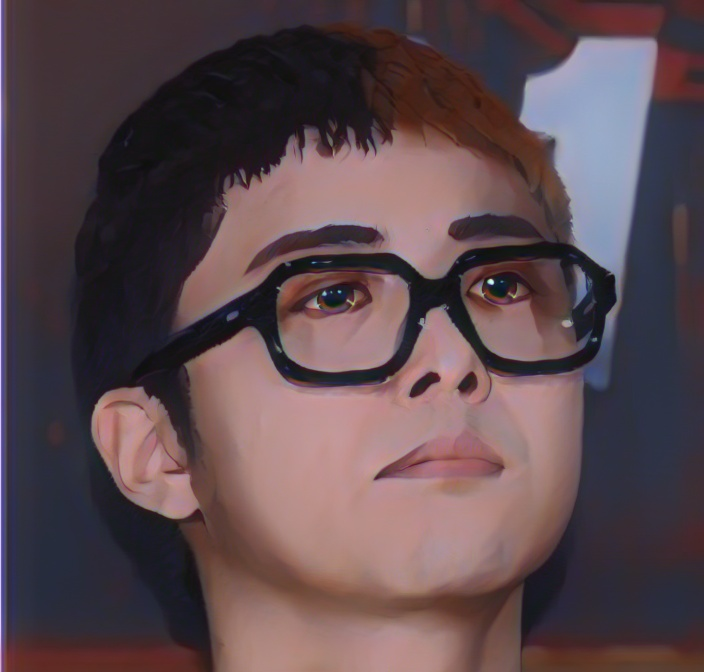
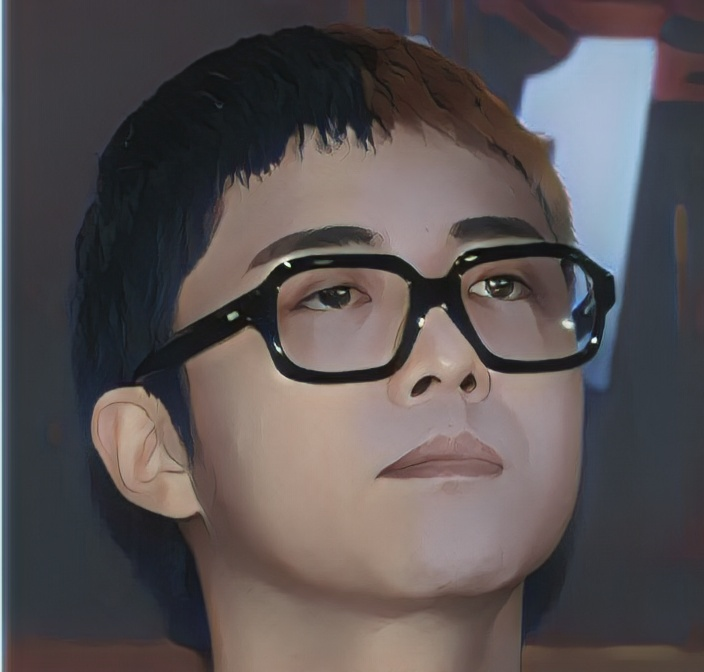
update Acane v2

diff --git a/utils/common.py b/utils/common.py
@@ -44,7 +44,7 @@ RELEASED_WEIGHTS = {
     ## Face portrait
     "arcane:v2": (
         "v2",
-        "https://github.com/ptran1203/pytorch-animeGAN/releases/download/v1.2/GeneratorV2_ffhq_Arcane_512.pt"
+        "https://github.com/ptran1203/pytorch-animeGAN/releases/download/v1.2/GeneratorV2_ffhq_Arcane_210624_e350.pt"
     )
 }
 

diff --git a/README.md b/README.md
@@ -60,7 +60,7 @@ predictor.transform_file(url, "anime.jpg")
 | Shinkai | AnimeGAN | train_photo + Shinkai style | [generator_shinkai.pt](https://github.com/ptran1203/pytorch-animeGAN/releases/download/v1.0/generator_shinkai.pth) |
 | Hayao:v2 | AnimeGANv2 | Google Landmark v2 + Hayao style | [GeneratorV2_gldv2_Hayao.pt](https://github.com/ptran1203/pytorch-animeGAN/releases/download/v1.2/GeneratorV2_gldv2_Hayao.pt) |
 | Shinkai:v2 | AnimeGANv2 | Google Landmark v2 + Shinkai style | [GeneratorV2_gldv2_Shinkai.pt](https://github.com/ptran1203/pytorch-animeGAN/releases/download/v1.2/GeneratorV2_gldv2_Shinkai.pt) |
-| Arcane:v2 | AnimeGANv2 | Face ffhq + Arcane style | [GeneratorV2_ffhq_Arcane_512.pt](https://github.com/ptran1203/pytorch-animeGAN/releases/download/v1.2/GeneratorV2_ffhq_Arcane_512.pt) |
+| Arcane:v2 | AnimeGANv2 | Face ffhq + Arcane style | [GeneratorV2_ffhq_Arcane_210624_e350.pt](https://github.com/ptran1203/pytorch-animeGAN/releases/download/v1.2/GeneratorV2_ffhq_Arcane_210624_e350.pt) |
 
 ## Train on custom dataset
 
@@ -165,11 +165,11 @@ python3 inference.py --weight hayao:v2\
 | Input | Arcane |
 |--|--|
 |![c1](./example/face/leo.jpg)|![g1](./example/arcane/leo.jpg)|
-|![c1](./example/face/cap.jpg)|![g1](./example/arcane/cap.jpg)|
+|![c1](./example/face/anne.jpg)|![g1](./example/arcane/anne.jpg)|
 |![c1](./example/face/dune2.jpg)|![g1](./example/arcane/dune2.jpg)|
 |![c1](./example/face/nat_.jpg)|![g1](./example/arcane/nat_.jpg)|
 |![c1](./example/face/seydoux.jpg)|![g1](./example/arcane/seydoux.jpg)|
-|![c1](./example/face/girl.jpg)|![g1](./example/arcane/girl.jpg)|
+|![c1](./example/face/tobey.jpg)|![g1](./example/arcane/tobey.jpg)|
 |![c1](./example/face/girl4.jpg)|![g1](./example/arcane/girl4.jpg)|
 
 
